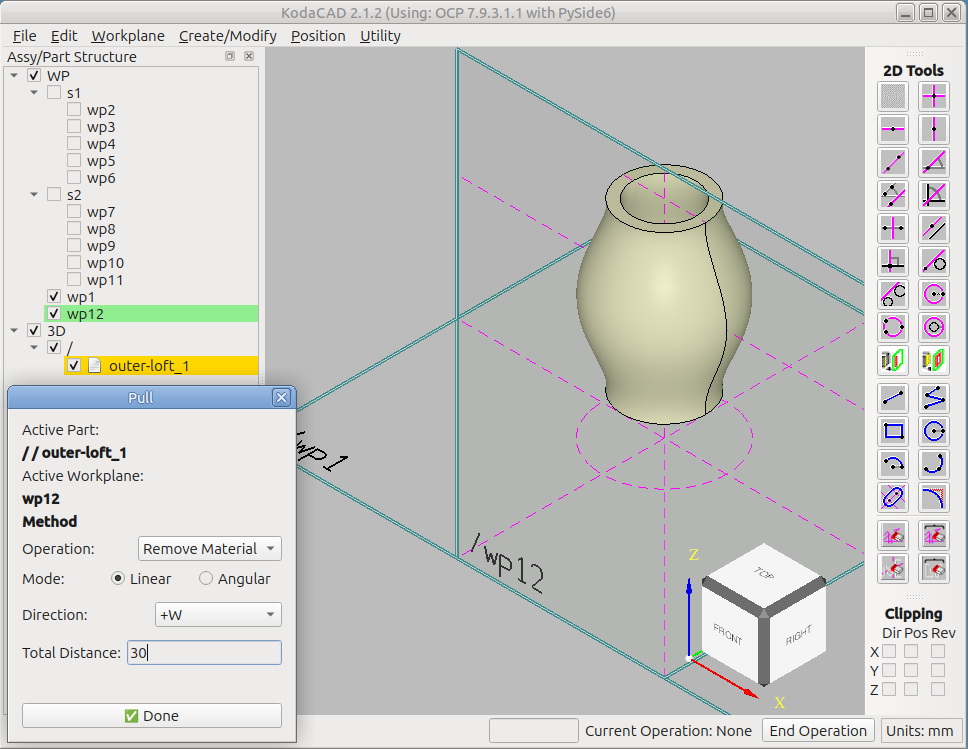
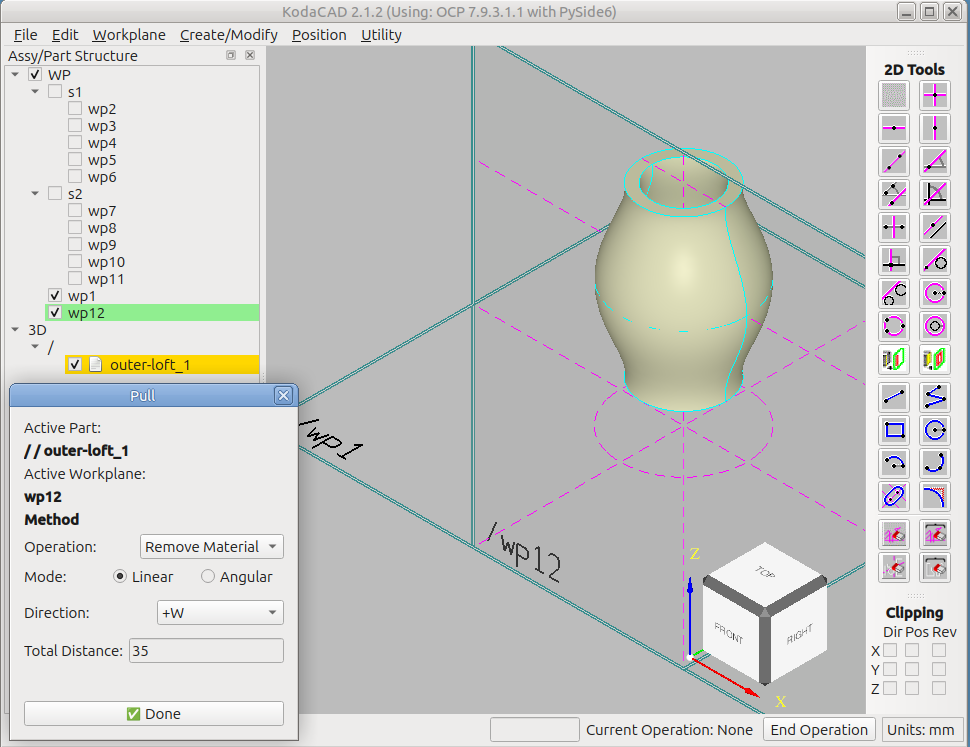
Session 144 -- Lofting tutorial review; Boolean dialog wording change

diff --git a/boolean_dialog.py b/boolean_dialog.py
@@ -105,7 +105,7 @@ class BooleanDialog(QDialog):
         self.unify_check = QCheckBox("Merge seam faces")
         self.unify_check.setChecked(True)
         lay.addWidget(self.unify_check)
-        lay.addWidget(QLabel("The tool part is consumed by the fuse."))
+        lay.addWidget(QLabel("The tool part will be consumed by this operation."))
 
         self.msg_label = QLabel("")
         self.msg_label.setWordWrap(True)

diff --git a/tutorials/lofting/README.md b/tutorials/lofting/README.md
@@ -1,116 +1,292 @@
-# Lofting Tutorial
+# Tutorial: Lofting a Hollow Part Through a Workplane Set (`loft-demo.stp`)
 
-In a typical workflow, a profile on a workplane is **pulled** so that it sweeps through 3D space. As it sweeps through space, it will add or remove material to/from a 3-Dimensional shape. By contrast, in lofting, a stationary **Set** of multiple workplanes, each containing a profile, is used to define a smooth surface such as the hull of a boat or the skin of an airplane fuselage. The process of using such a **workplane set** to define the shape of a part is referred to as **lofting**. Other uses of lofting are an airplane wing or a turbine blade.
+In a typical workflow, a profile on a workplane is **pulled** so that it
+sweeps through 3D space, adding material to a part or removing it. In
+**lofting**, a stationary **Workplane Set** -- several workplanes, each
+holding a profile -- defines a smooth surface that passes through all of
+the profiles, like the hull of a boat or the skin of an airplane
+fuselage. Other typical uses are an airplane wing or a turbine blade.
 
-In this tutorial, it will be shown how to build a simple lofted part using a workplane set.
+This tutorial builds a simple lofted vase and then works it over: a
+hollow wall made by subtracting one lofted part from another, a
+transverse hole, fillets, and finally Defeaturing to take the fillets
+back off. It doubles as a regression test for the Workplane Set, Loft and
+Boolean tools.
 
-We start by creating a *Reference workplane* which will be used to *anchor* the new workplane set. The Reference workplane is not actually going to be part of the set. It just defines the location of the set. 
+## What you'll need
 
-For this example, we will use **Workplane -> At Origin, XY Plane**
+A fresh (empty) KodaCAD session. `loft-demo.stp`, in this folder, is the
+finished part (fillets included) for comparison, or for trying the
+Defeaturing and Other Tests steps without rebuilding the part first.
 
-![WP1, the Reference workplane that anchors the new workplane set](imgs/wp1.png)
+## What this exercises
 
-Once wp1 is created, we will draw a construction circle with its center at the origin and radius = 30. We won't need that construction circle yet, but will use it later in the tutorial.
+Workplane creation, construction circles, **Workplane -> Set...**,
+drawing profiles on the individual workplanes of a set, Create Empty
+Part, **Loft**, **Boolean** (Subtract, with seam merging), Save Session
+and the Undo/Redo caveat that goes with it, **Workplane -> By 3 points**,
+**Pull** (Remove Material, Linear), Fillet, **Defeaturing** (including
+what happens to the surface seam), and afterwards Create Shared Instance
+and Copy Part on a lofted part.
 
-### Create the Workplane Set
+---
 
-Next, click **Workplane -> Set...**
+## Step 1 -- Create the reference workplane
 
-![Create WP Set Menubar item](imgs/set.png)
+We start with a *Reference workplane*, which *anchors* the new workplane
+set. It is not itself a member of the set -- it only defines where the
+set goes.
 
-This launches a dialog which will allow us to specfy:
-1. The total number of parallel workplanes that will be contianed in the set
-2. The uniform spacing between the workplanes, starting with the space between the "Reference workplane" and the first of the workplanes in the set.
+**Workplane -> At Origin, XY Plane**
 
-![Create WP Set Dialog](imgs/set-dialog.png)
+![wp1, the Reference workplane that anchors the new workplane set](imgs/wp1.png)
 
-Clicking the "Done" button creates "s1", the set containing workplanes numbered wp2 through wp6. They are shown both in the viewport and in the tree. The last one created is currently shown "active", indicated by the green highlighting in the tree. Only the **Active workplane** can be drawn on. You are going to need to pay attention to this when you create the circular profiles in the next step.
+Once wp1 exists, draw a construction circle on it with its center at the
+origin and radius = 30. We don't need it yet, but we will use it in Step
+8 to place another workplane.
 
-![WP set1 before profiles](imgs/s1start.png)
+*Exercises: workplane creation; construction circle.*
 
-In this step, a circular profile is drawn on each of the workplanes. The centers are all located at the wp origin (where the horizontal and vertical construction lines intersect). The circle radii start at 15 mm (on wp2 & wp6) then go to 20 mm (on wp3 & wp5), and 25 mm on wp4.
+## Step 2 -- Create the Workplane Set
 
-![WP set1 profiles](imgs/s1-profiles.png)
+**Workplane -> Set...**
 
-### Create the Empty Part for Lofting
+![Workplane -> Set... menu item](imgs/set.png)
 
-After all the profiles are drawn, we need to create an empty part. RMB click on the **'/'** symbol in the tree, then choose **Create Empty Part**. Name it "inner-loft". It will be shown highlighted in yellow, indicating that it is the active part.
+The dialog asks for:
+
+1. **Number of workplanes (N)** -- how many parallel workplanes the set
+   will contain.
+2. **Spacing along +W** -- the uniform spacing between workplanes,
+   starting with the space between the Reference workplane and the
+   first workplane of the set.
+
+For this tutorial use **N = 5** and **Spacing = 20** mm.
+
+![Create Workplane Set dialog](imgs/set-dialog.png)
+
+Click **Done**. This creates `s1`, the set containing `wp2` through
+`wp6`. They appear both in the viewport and in the tree. The last one
+created is **active**, shown with green highlighting in the tree. Only
+the active workplane can be drawn on, so keep an eye on this in the next
+step.
+
+![Workplane set s1, before any profiles](imgs/s1start.png)
+
+*Exercises: Workplane Set creation; the active workplane.*
+
+## Step 3 -- Draw the inner profiles
+
+Draw one circular profile on each workplane of `s1`. To draw on a
+workplane, first make it active (RMB the workplane in the tree, then
+**Set Active**). Each circle is centered on the workplane's origin (where
+the horizontal and vertical construction lines cross). The radii are:
+
+| Workplane | wp2 | wp3 | wp4 | wp5 | wp6 |
+|-----------|-----|-----|-----|-----|-----|
+| Radius (mm) | 15 | 20 | 25 | 20 | 15 |
+
+![The five inner profiles on s1](imgs/s1-profiles.png)
+
+*Exercises: switching the active workplane; circle profiles.*
+
+## Step 4 -- Loft the inner part
+
+Lofting needs an empty part to receive the result. RMB the **'/'** in
+the tree and choose **Create Empty Part**. Name it `inner-loft`. (The
+tree shows it as `inner-loft_1`, as usual for a part's occurrence name.)
+It is highlighted in yellow, which means it is the **active part**.
 
 ![Create Empty Part](imgs/create-empty-inner-loft.png)
 
-Once we have an active part and have a set containing an active workplane, go to the menubar and click **Create/Modify**. Then, click on **Loft** to generate the resulting lofted part.
+With an active part, and with a workplane of the set active, click
+**Create/Modify -> Loft**. The loft passes a smooth surface through all
+five profiles.
 
-This part will actually be used as a **subtractive** tool in the construction of the final result. The outer surface of this part will end up being the inner surface of the final resulting shape. We'll talk more later about why it's being done this way.
+![The inner part, lofted](imgs/inner-lofted.png)
 
-![Inner Part lofted](imgs/inner-lofted.png)
+This part is a **subtractive tool**: its outer surface becomes the
+*inner* surface of the finished shape. The reason for doing it this way
+instead of using Shell is explained in Step 6.
 
-### Repeat the process to Loft the Outer Part
+*Exercises: Create Empty Part; Loft (workplane set identified by its
+active workplane).*
 
-Next we are going to repeat the steps that went into creating the inner-loft and we will create the outer-loft part. In the screenshot below, you can see that we have created a 2nd set, s2, with circular profiles whose radii are 5 mm larger than the profiles used to create the inner-loft. The values of the new radii range from 20 mm at the ends to 30 mm in the center.
+## Step 5 -- Loft the outer part
 
-![WP set2 profiles](imgs/s2-profiles.png)
+Repeat the process for the outer surface. First make **wp1** the active
+workplane again -- it is the Reference workplane for the next set -- and
+create a second set, `s2`, with **Workplane -> Set...** using the same N
+= 5 and Spacing = 20. Then draw circles whose radii are 5 mm larger than
+the inner ones:
 
-Again, once the profiles are drawn, the steps to create the loft are the same.
-1. Create an empty part, and give it a name. It must be active.
-2. Make sure one of the workplanes in the set to be be used is active.
+| Workplane | wp7 | wp8 | wp9 | wp10 | wp11 |
+|-----------|-----|-----|-----|------|------|
+| Radius (mm) | 20 | 25 | 30 | 25 | 20 |
+
+![The five outer profiles on s2](imgs/s2-profiles.png)
+
+Then, as before:
+
+1. Create an empty part and name it `outer-loft`. It must be active.
+2. Make sure one of the workplanes of `s2` is active.
 3. **Create/Modify -> Loft**
 
-At this point, we have created 2 lofted parts superimposed. We will do a boolean subtraction operation to *subtract* the inner one from the outer one, resulting in a 5 mm thick shell whose outer face and inner face were both created by lofting. Why go to the trouble of lofting the inner face? Why not just use the shell operation and set the thickness equal to 5 mm? The reason, as it turns out, is that when we subsequently add more features (operations) to the part, we may still want to be able to remove or modify those features using our **Defeaturing** functionality. For some reason, fillets and chamfers adjacent to a shelled face do not cooperate with the defeaturing operation. So we loft the inner face, just to be on the safe side.
+We now have two lofted parts, superimposed.
 
-### The Boolean Subtraction
+*Exercises: a second Workplane Set; Loft again with a different set.*
 
-With the outer part active, click **Create/Modify -> Boolean...**
+## Step 6 -- Subtract the inner part from the outer part
 
-This will launch the Boolean Dialog.
-1. Choose Operation: Subtract
-2. Choose Tool part: inner-loft_1
-3. Make sure "Merge seam faces" is checked. This heals any "scar lines" that might occur where part edges of one part land on an otherwise smooth, continuous face of the finished part.
+The next operation subtracts the inner part from the outer part,
+leaving a 5 mm wall whose outer and inner surfaces were both created by
+lofting.
 
+*Why not simply Shell the outer part with a thickness of 5 mm?* Because
+later we will want to remove or modify features such as fillets using
+**Defeaturing**. In our testing, fillets and chamfers adjacent to a
+*shelled* surface cannot be removed by Defeaturing -- the operation
+reports success but leaves the feature in place -- whereas the same
+fillets next to a *lofted* inner surface can. We don't know exactly why
+Shell causes this, but lofting the inner surface avoids it.
 
-*Claude- I noticed that this dialog warns "The tool part is consumed by the fuse." even though we have chosen **Subtract** and not **Fuse**. I suggest we change this wording to "The tool part will be consumed by this operation." so that it will be applicable regardless of the operation selected.*
+With the outer part active, click **Create/Modify -> Boolean...**, which
+opens the Boolean dialog.
 
+1. **Operation:** Subtract.
+2. **Tool part:** `inner-loft_1`.
+3. Leave **Merge seam faces** checked. This heals "scar lines" that can
+   appear where the edges of the original parts land on what should be
+   one smooth, continuous face of the result.
 
-![Boolean Subtraction Dialog](imgs/subtract-dialog.png)
+![Boolean dialog, Subtract](imgs/subtract-dialog.png)
 
-Clicking on the **Done** button completes the boolean subtract operation.
+Click **Done**. The tool part is consumed by the operation, so only the
+hollow `outer-loft_1` remains.
 
-1. Now would be an excellent time to save the session. Saving the session creates a step file, which does a really nice job of saving 3D geometry and assembly hierarchy, but workplanes are not saved.
-2. It would also be a good time to make sure the Undo steps that went into creating this lofted part are all available. Undo/Redo steps won't be available when re-loading a saved session file.
+![The lofted part after subtraction](imgs/subtract-done.png)
 
-**Warning!!** If you click on the **Very Last Undo**, this wession will be **toast**. You won't be happy. Be sure to do step 1 before playing with this lit stick of dynamite!
+*Exercises: Boolean Subtract with a part as the tool; seam merging; the
+tool part being removed from the tree.*
 
-The good news is that all the following steps in the tutorial can be easily performed by starting with the re-loaded session file.
+## Step 7 -- Save the session
 
-![Lofted Part afer Subtraction](imgs/subtract-done.png)
+Two things worth doing right now:
 
-### Punching a transverse hole in the lofted part
+1. **File -> Save Session.** A STEP file stores 3D geometry and the
+   assembly hierarchy very well, but it does not store workplanes.
+2. If you want to look back, this is also the time to check that the
+   Undo steps that built the part are available. Undo/Redo history is
+   **not** saved in the file, so it is gone after a reload.
 
-At the beginning of the tutorial, when we created wp1, we made a construction circle, noting that we would use it later. Well, it's time. After making wp1 active, click **Workplane -> By 3 points**. Click first on the center of the construction circle on wp1 to specify the origin, then on the lower intersection of the circle and the vertical consruction line to specify the +W direction of the new workplane. Third, specify the +U direction by clicking on the right-side intersection of the circle with the horizontal consruction line.
+**Warning:** if you click Undo all the way back to the very first
+operation, this session is toast -- you will be back to an empty
+session. Save first (step 1) before experimenting with that particular
+stick of dynamite.
 
-After creating the new workplane, we want to draw a 10 mm radius circle profile on it, located at the center of the lofted part, as shown in the screenshot below. To aid in finding the center of the part, you can project the top and bottom faces of the part, then construct the bisector between them.
+The good news is that every remaining step can be done just as well
+starting from the reloaded session file.
 
-![New Workplane with Pull Profile](imgs/pull-profile.png)
+*Exercises: Save Session; the Undo/Redo limits across a save/reload.*
 
-Now, with the new workplane active and with the lofted part active, click **Create/Modify -> Pull**. This will display the Pull Dialog. Complete the option selections as shown in the screenshot below.
+## Step 8 -- Punch a transverse hole
 
-![Pull Dialog](imgs/pull-dialog.png)
+Back in Step 1 we drew a construction circle on wp1 and said we would use
+it. Now is the time. Make wp1 active, then click **Workplane -> By 3
+points** and pick, in order:
 
-Click Done to create the transverse hole in the front face of the lofted part, as shown in the section view below.
+1. the **center** of the construction circle -- the origin of the new
+   workplane;
+2. the **lower intersection** of the circle with the vertical
+   construction line -- this sets the **+W** direction;
+3. the **right-hand intersection** of the circle with the horizontal
+   construction line -- this sets the **+U** direction.
 
-![Lofted Part in section view](imgs/section-view.png)
+On the new workplane, draw a circle profile of **radius 10 mm** at the
+center of the lofted part. To find the center, project the top and bottom
+faces of the part onto the workplane and construct the bisector between
+them.
 
-### Apply Fillets
+![The new workplane with its pull profile](imgs/pull-profile.png)
 
-It's now time to apply fillets (or chamfers) to all the sharp edges of the part, including the top, the bottom, and also around the perimeter of the transverse hole.
+Now, with the new workplane and the lofted part both active, click
+**Create/Modify -> Pull** and choose:
 
-![Lofted Part complete](imgs/fillets.png)
+* **Operation:** Remove Material
+* **Mode:** Linear
+* **Direction:** +W
+* **Total Distance:** 35
 
-### Test Defeaturing
+![The Pull dialog](imgs/pull-dialog.png)
 
-Once these fillets are applied, test that they can be removed using the defeaturing tools available by clicking **Create/Modify -> Defeature...**.
+Click **Done**. The hole goes through the front wall of the part, as the
+section view below shows.
 
-### Other Tests
-Other tests include:
-* Save/Load session
-* Create shared Instance
-* Create copy
+![The lofted part in section view](imgs/section-view.png)
+
+*Tip:* choose **Direction: Both** to cut through both walls at once. The
+Total Distance is split equally between +W and -W, so a Total Distance
+above 70 clears both walls.
+
+*Exercises: Workplane -> By 3 points; projecting faces onto a workplane;
+Pull, Remove Material, Linear, +W (and Both).*
+
+## Step 9 -- Apply fillets
+
+Apply fillets (or chamfers) to all the sharp edges of the part: the top,
+the bottom, and both rims of the transverse hole. The wall is only 5 mm
+thick, so choose a radius comfortably under that (1.5 mm, say).
+
+![The lofted part, complete](imgs/fillets.png)
+
+*Exercises: Fillet, including edges next to lofted (B-spline) surfaces.*
+
+## Step 10 -- Test Defeaturing
+
+Now check that the fillets can be taken back off. Open
+**Create/Modify -> Defeaturing...**, choose **Manual (pick every face)**,
+click the faces of one fillet, then Apply. Repeat for the others.
+
+Two things to notice:
+
+* All of the fillets should be removable, including those next to the
+  *inner* lofted surface -- which is exactly why Step 6 went to the
+  trouble of lofting it.
+* If you remove several fillets together as one group, "scar lines" can
+  be left on the lofted face along the circle where each fillet met it.
+  Removing the fillets one at a time does not leave them. If a seam does
+  remain, pick the smaller of the two faces with the **Manual** method
+  and Apply, and the seam is gone.
+
+*Exercises: Defeaturing (Manual); fillets next to a lofted surface; seam
+cleanup.*
+
+## Step 11 -- Other tests
+
+Repeat any of these on the finished lofted part:
+
+* **Save Session**, then **Load Session**: names and color should
+  survive.
+* **Create Shared Instance** (RMB the part), move the instance, then
+  modify the original (for example, cut the hole with Pull): both
+  instances should update.
+* **Copy Part** (RMB), move the copy with **Position**, then remove a
+  fillet from the copy only: the original and its shared siblings should
+  stay unchanged.
+
+*Exercises: STEP round trip of lofted geometry; shared-instance redraw;
+independent copies.*
+
+---
+
+## Notes for whoever runs this next
+
+- If any menu label, dialog control name, or message has drifted from
+  what is written here, fix it in this document directly -- catching
+  that drift is exactly what this tutorial is for.
+- Fillet and chamfer radii in Step 9 are a suggestion, not a requirement;
+  anything that fits within the 5 mm wall works.
+- See the [OCC Bottle tutorial](../occ-bottle/README.md) for the Shell
+  operation, which is the road not taken in Step 6.
+- See the [Jack-o'-Lantern tutorial](../jack/README.md) for more of
+  Pull and the 2D sketch toolbar.

diff --git a/docs/DEVELOPMENT_LOG.md b/docs/DEVELOPMENT_LOG.md
@@ -6991,3 +6991,9 @@ Doug's test: outer and inner loft parts, inner subtracted from outer (Boolean...
 Observation: removing a group of fillets in one Defeaturing pass leaves "scar lines" on the lofted face at the circle of tangency; removing them one at a time leaves no scars. Not investigated. Possible follow-up (not built): run ShapeUpgrade_UnifySameDomain on the defeatured result (as the Boolean dialog's seam merge does).
 
 Doug's decision on the scar lines: no change. He already clears any leftover seam with the second option in the Defeaturing dialog (click the smaller face and the seam is gone), which works well. No automatic same-domain merge is being added to Defeaturing.
+
+# Session 144 -- Lofting tutorial review; Boolean dialog wording
+
+Reviewed Doug's first-draft Lofting tutorial (README + 14 screenshots + `loft-demo.stp`) against the app and the other tutorials' format, and reformatted it (`Tutorial:` title, What you'll need / What this exercises, numbered `Step N --` sections with italic `Exercises:` lines, Notes for whoever runs this next with cross-links). Corrections: typos; menu name is `Create/Modify -> Defeaturing...` (draft said Defeature...); explicit Pull settings (Remove Material, Linear, +W, Total Distance 30); wp1 must be made active again before creating s2; each workplane must be made active before drawing on it; part shows as `inner-loft_1`; the "why not Shell" paragraph now states the tested finding (Session 139/143) instead of "for some reason"; the seam-merge explanation reworded; Step 10 records the one-at-a-time vs group scar-line behavior and the Manual seam cleanup; the Boolean/Pull "Both" tip added. Doug's in-text comment was acted on and removed.
+
+boolean_dialog.py: the note label "The tool part is consumed by the fuse." (wrong for Subtract) is now "The tool part will be consumed by this operation." The tutorial's `imgs/subtract-dialog.png` still shows the old wording and should be retaken.
